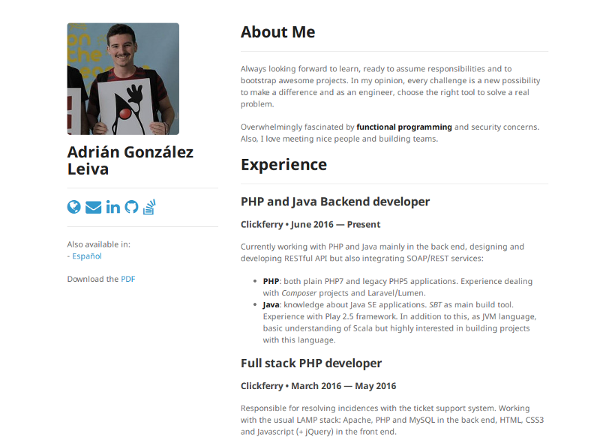
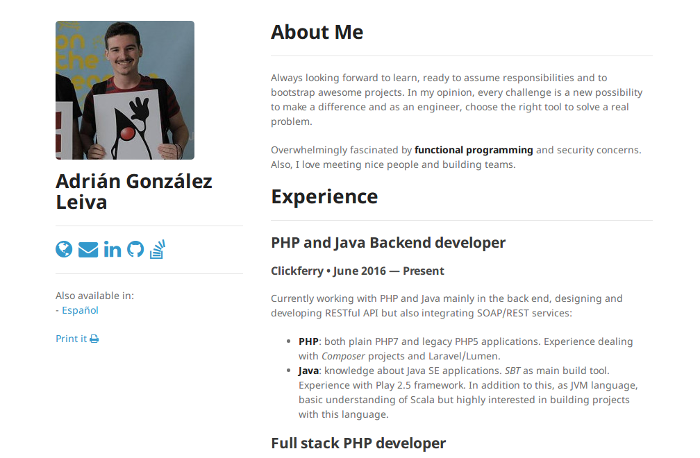
Added <i> to print_contact links and updated README.md thumbnail

diff --git a/_includes/print_contact.md b/_includes/print_contact.md
@@ -1,18 +1,18 @@
 <ul class="show-print">
   {% if site.contact.website %}
-    <li><i class="fa fa-globe fa-2x" aria-hidden="true"></i> {{ site.contact.website }}</li>
+    <li><i class="fa fa-globe fa-2x" aria-hidden="true"></i> <i>{{ site.contact.website }}</i></li>
   {% endif %}
   {% if site.contact.email %}
-    <li><i class="fa fa-envelope fa-2x" aria-hidden="true"></i> {{ site.contact.email }}</li>
+    <li><i class="fa fa-envelope fa-2x" aria-hidden="true"></i> <i>{{ site.contact.email }}</i></li>
   {% endif %}
   {% if site.contact.linkedin %}
-    <li><i class="fa fa-linkedin fa-2x" aria-hidden="true"></i> {{ site.contact.linkedin }}</li>
+    <li><i class="fa fa-linkedin fa-2x" aria-hidden="true"></i> <i>{{ site.contact.linkedin }}</i></li>
   {% endif %}
   {% if site.contact.github %}
-    <li><i class="fa fa-github fa-2x" aria-hidden="true"></i> {{ site.contact.github }}</li>
+    <li><i class="fa fa-github fa-2x" aria-hidden="true"></i> <i>{{ site.contact.github }}</i></li>
   {% endif %}
   {% if site.contact.stack_overflow %}
-    <li><i class="fa fa-stack-overflow fa-2x" aria-hidden="true"></i> {{ site.contact.stack_overflow }}</li>
+    <li><i class="fa fa-stack-overflow fa-2x" aria-hidden="true"></i> <i>{{ site.contact.stack_overflow }}</i></li>
   {% endif %}
 </ul>
 
